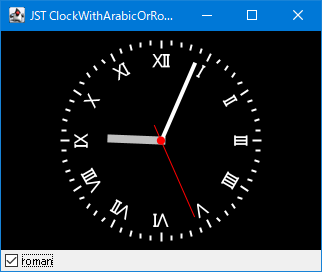
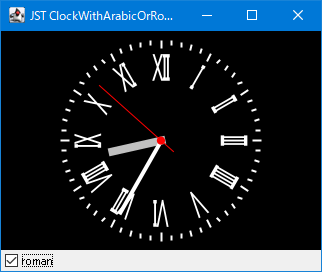
refactor: expand the height of the roman numerals on the clock face by 200%

diff --git a/ClockWithArabicOrRomanNumerals/src/java/example/MainPanel.java b/ClockWithArabicOrRomanNumerals/src/java/example/MainPanel.java
@@ -167,8 +167,9 @@ class AnalogClock extends JPanel {
     Font font = g2.getFont();
     FontRenderContext frc = g2.getFontRenderContext();
     if (isRomanNumerals) {
+      AffineTransform si = AffineTransform.getScaleInstance(1d, 2d);
       for (String txt : romanNumerals) {
-        Shape s = getOutline(txt, font, frc);
+        Shape s = getTextLayout(txt, font, frc).getOutline(si);
         Rectangle2D r = s.getBounds2D();
         double tx = r.getCenterX();
         double ty = radius - hourMarkerLen - r.getHeight() + r.getCenterY() * .5;
@@ -179,7 +180,7 @@ class AnalogClock extends JPanel {
     } else {
       Point2D ptSrc = new Point2D.Double();
       for (String txt : arabicNumerals) {
-        Shape s = getOutline(txt, font, frc);
+        Shape s = getTextLayout(txt, font, frc).getOutline(null);
         Rectangle2D r = s.getBounds2D();
         double ty = radius - hourMarkerLen - r.getHeight() - r.getCenterY() * .5;
         ptSrc.setLocation(0d, -ty);
@@ -193,7 +194,7 @@ class AnalogClock extends JPanel {
     }
   }
 
-  private static Shape getOutline(String txt, Font font, FontRenderContext frc) {
-    return new TextLayout(txt, font, frc).getOutline(null);
+  private static TextLayout getTextLayout(String txt, Font font, FontRenderContext frc) {
+    return new TextLayout(txt, font, frc);
   }
 }
